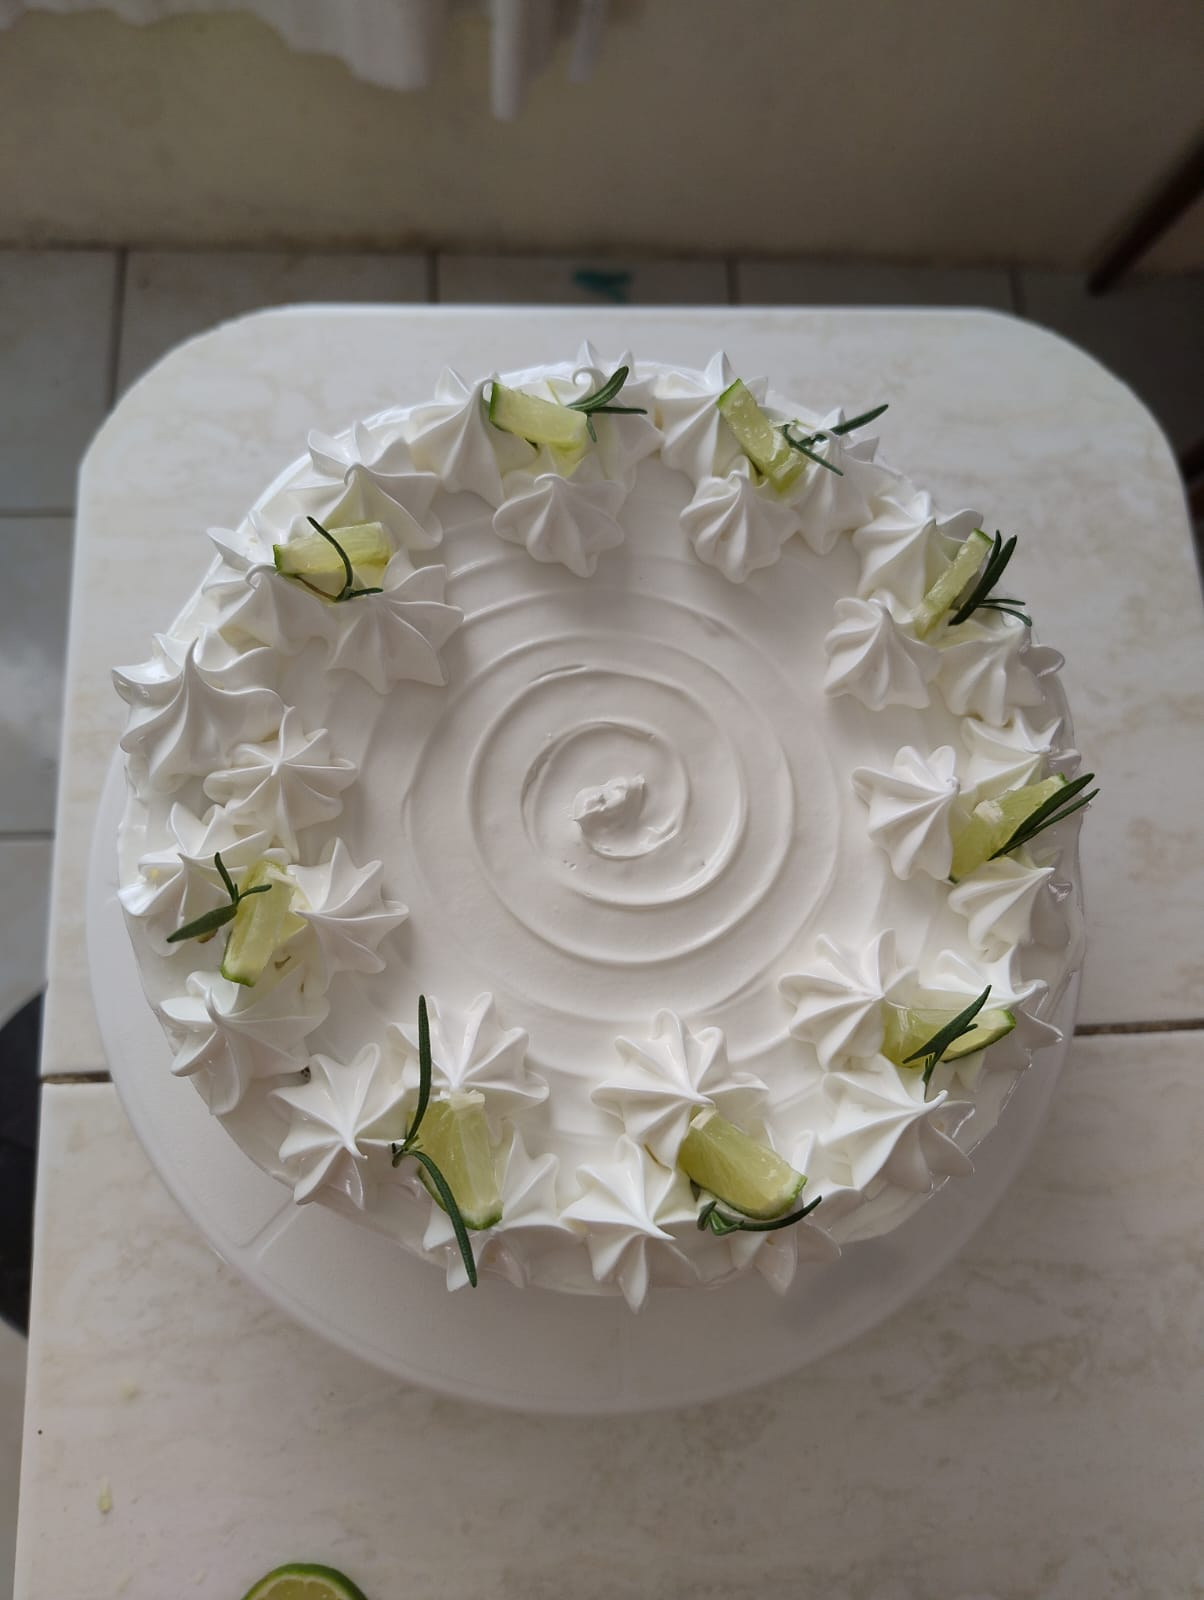
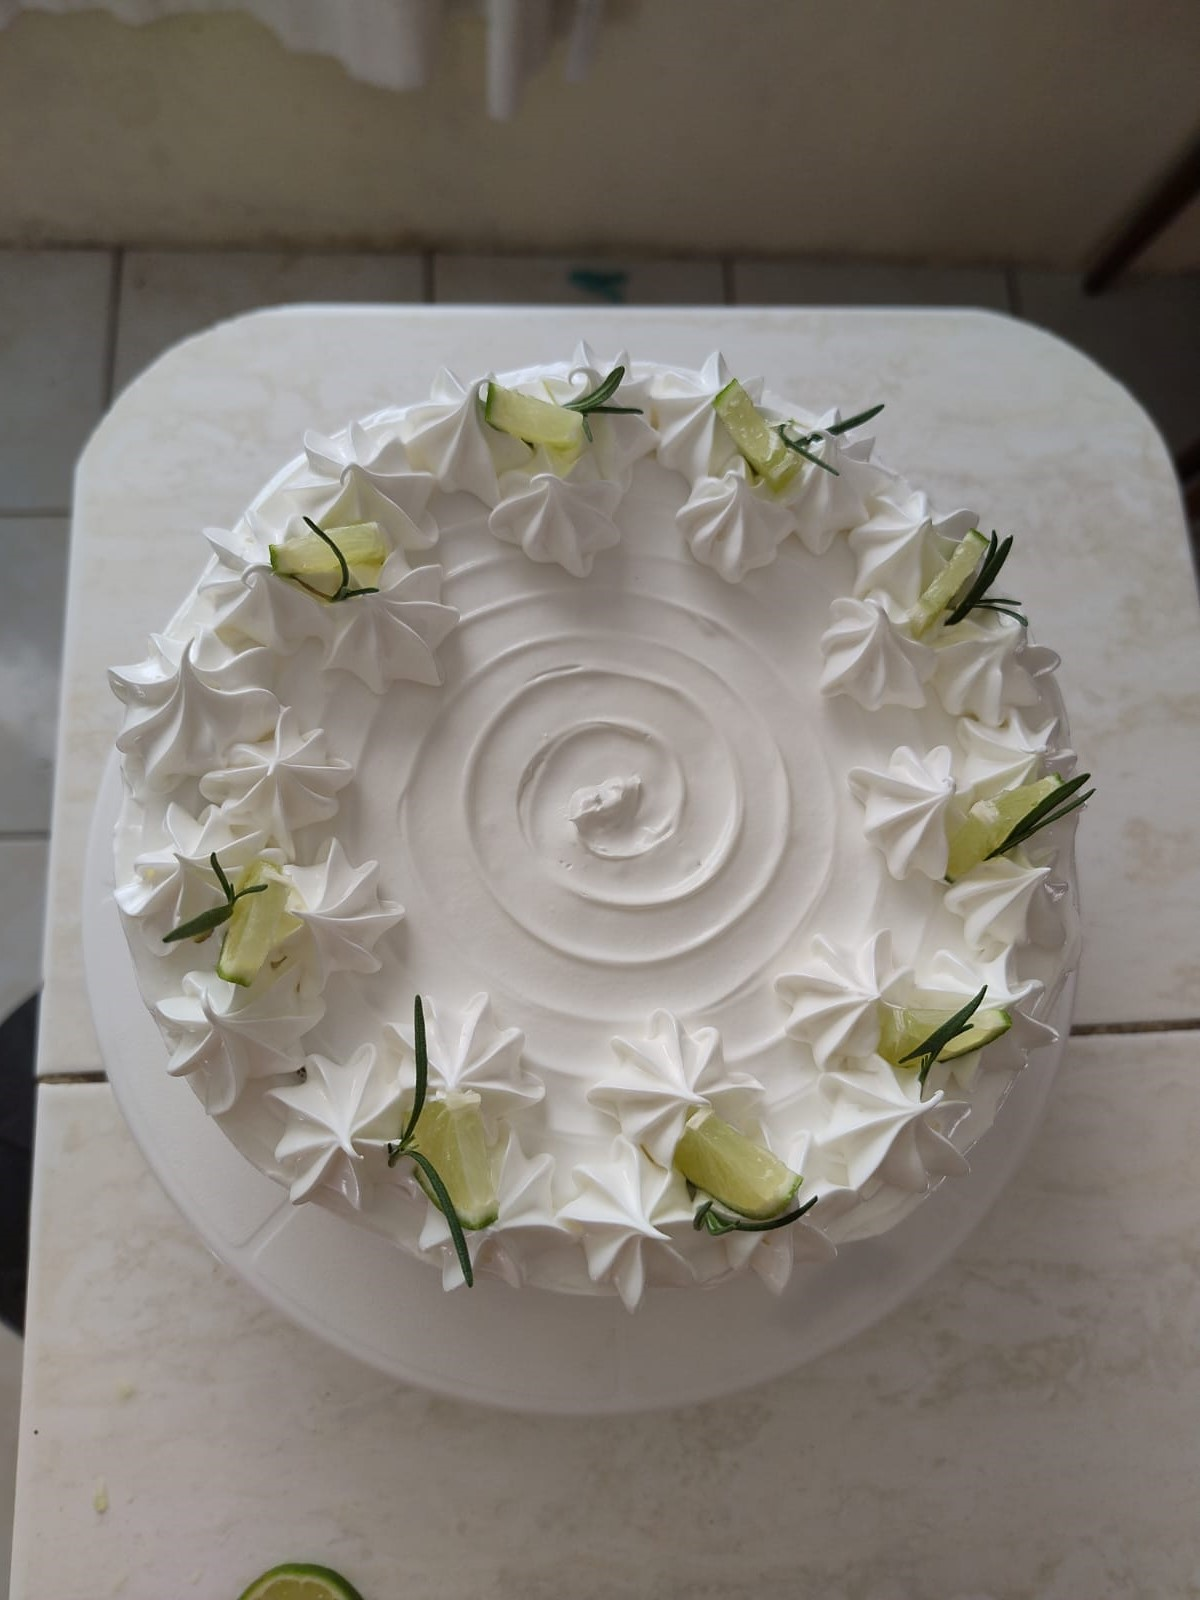
updt
- alterada categoria salgados (id)
-alterada imagem bolo

diff --git a/cardapio.html b/cardapio.html
@@ -149,7 +149,7 @@
   </section>
 
   <!-- SALGADOS -->
-  <section id="salgados" class="lista">
+  <section id="Salgados" class="lista">
     <!-- produto 1 -->
     <div class="produto">
       <img src="imagens/coxinha_frango.jpeg" alt="Coxinha de frango">
